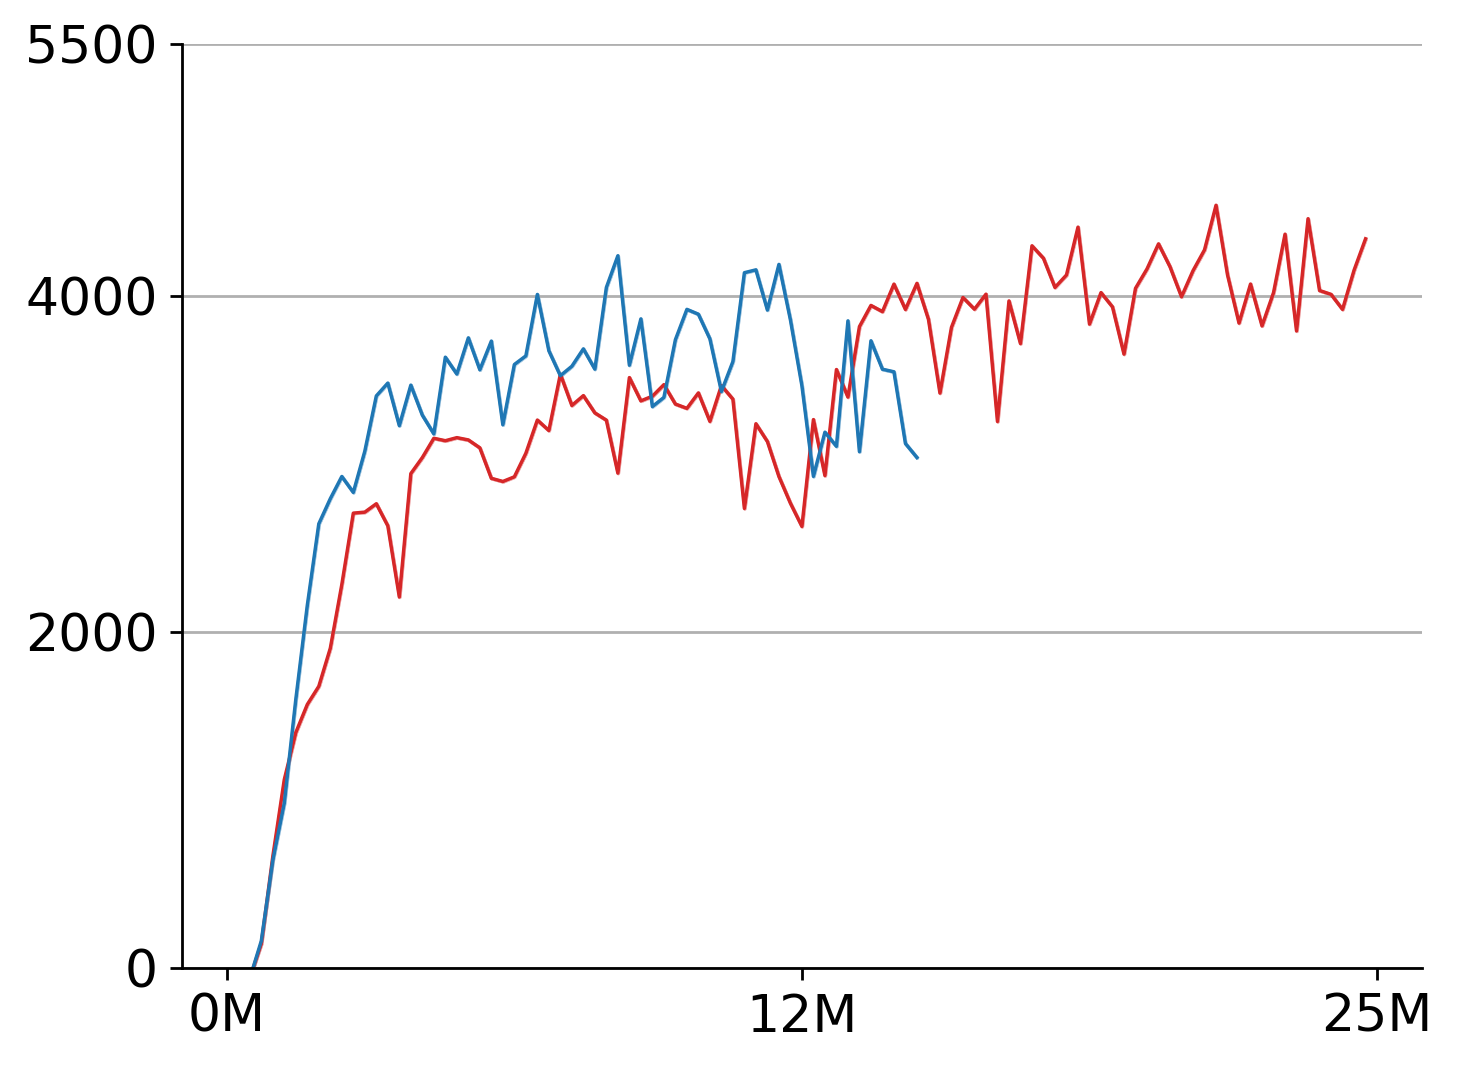
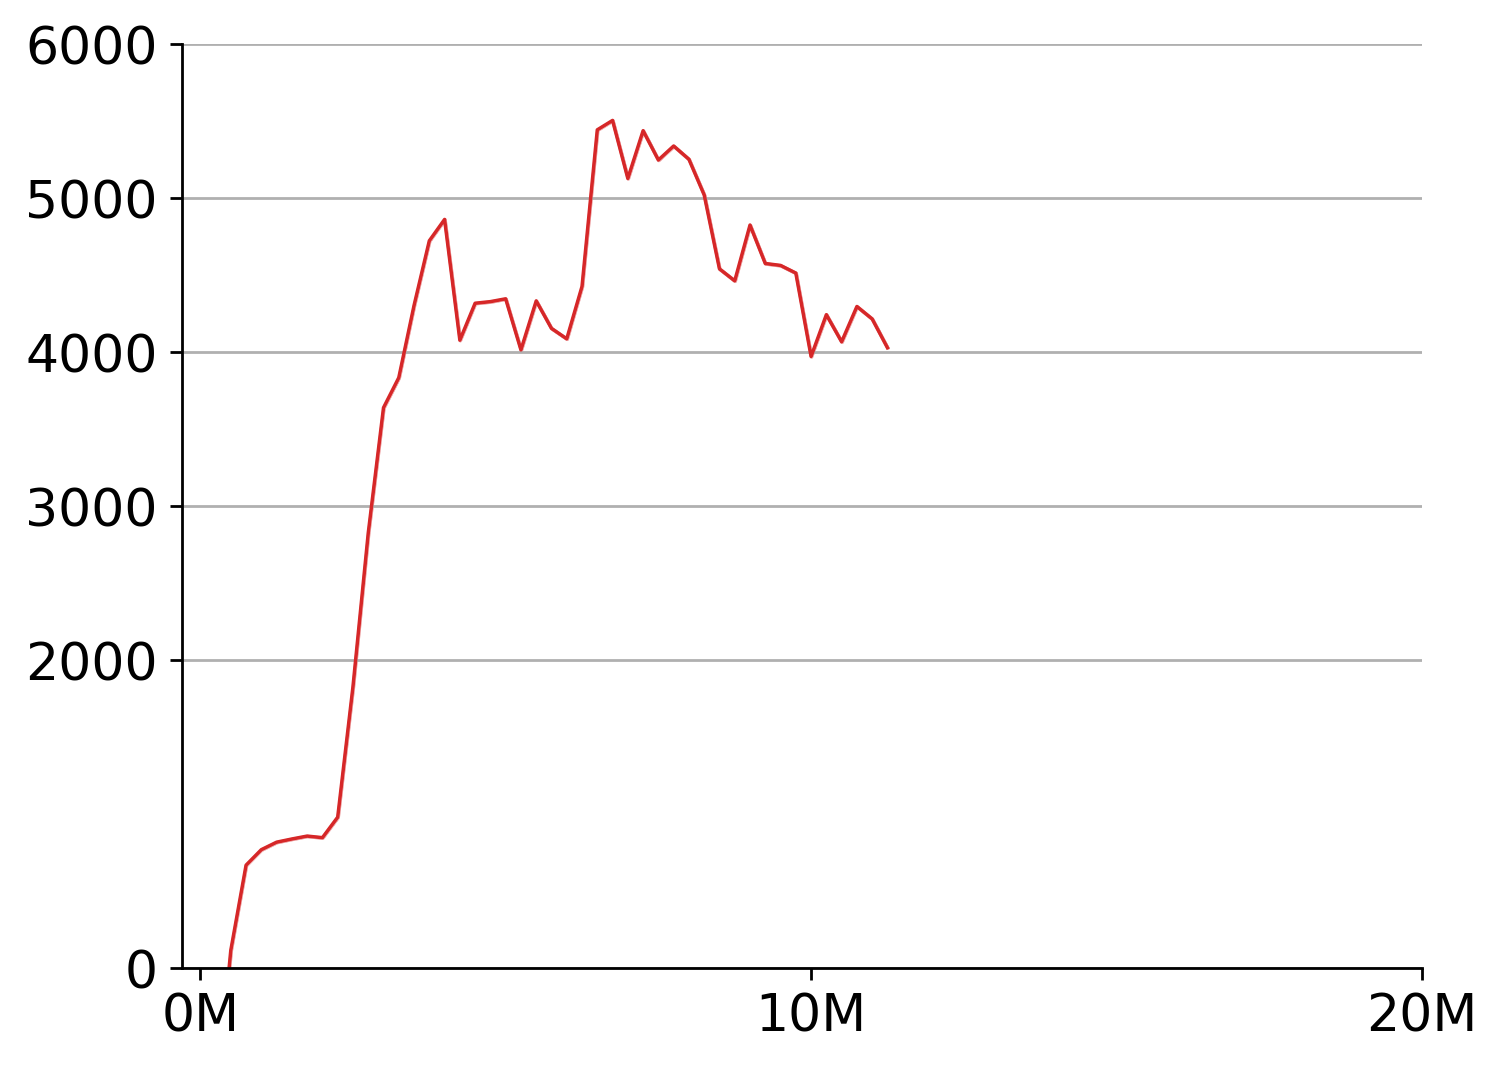
lop

diff --git a/lop/algos/rl/ppo.py b/lop/algos/rl/ppo.py
@@ -143,20 +143,19 @@ class PPO(Learner):
             loss_erank = - torch.stack(erank_losses).mean()
             loss_erank.backward()
 
-            if is_policy:
-                # Calculate gradient norm
-                grad_norm = 0.0
-                for param in self.pol.parameters():
-                    if param.grad is not None:
-                        grad_norm += param.grad.data.norm(2).item() ** 2
-                grad_norm = grad_norm ** 0.5
-            else:
-                # Calculate gradient norm
-                grad_norm = 0.0
-                for param in self.vf.parameters():
-                    if param.grad is not None:
-                        grad_norm += param.grad.data.norm(2).item() ** 2
-                grad_norm = grad_norm ** 0.5
+            grad_norm = 0.0
+            # if is_policy:
+            #     # Calculate gradient norm
+            #     for param in self.pol.parameters():
+            #         if param.grad is not None:
+            #             grad_norm += param.grad.data.norm(2).item() ** 2
+            #     grad_norm = grad_norm ** 0.5
+            # else:
+            #     # Calculate gradient norm
+            #     for param in self.vf.parameters():
+            #         if param.grad is not None:
+            #             grad_norm += param.grad.data.norm(2).item() ** 2
+            #     grad_norm = grad_norm ** 0.5
 
             opt.step()
 
@@ -202,20 +201,20 @@ class PPO(Learner):
                 self.opt.zero_grad()
                 p_loss.backward()
 
-                # Calculate policy network gradient norm
-                pol_grad_norm = 0.0
-                for param in self.pol.parameters():
-                    if param.grad is not None:
-                        pol_grad_norm += param.grad.data.norm(2).item() ** 2
-                pol_grad_norm = pol_grad_norm ** 0.5
+                # # Calculate policy network gradient norm
+                # pol_grad_norm = 0.0
+                # for param in self.pol.parameters():
+                #     if param.grad is not None:
+                #         pol_grad_norm += param.grad.data.norm(2).item() ** 2
+                # pol_grad_norm = pol_grad_norm ** 0.5
                 # print(f'Policy network gradient norm: {pol_grad_norm:.4f}')
 
-                # Calculate value network gradient norm  
-                val_grad_norm = 0.0
-                for param in self.vf.parameters():
-                    if param.grad is not None:
-                        val_grad_norm += param.grad.data.norm(2).item() ** 2
-                val_grad_norm = val_grad_norm ** 0.5
+                # # Calculate value network gradient norm  
+                # val_grad_norm = 0.0
+                # for param in self.vf.parameters():
+                #     if param.grad is not None:
+                #         val_grad_norm += param.grad.data.norm(2).item() ** 2
+                # val_grad_norm = val_grad_norm ** 0.5
                 # print(f'Value network gradient norm: {val_grad_norm:.4f}')
 
                 if self.max_grad_norm > 0:

diff --git a/lop/rl/plots/fig4a.py b/lop/rl/plots/fig4a.py
@@ -76,14 +76,15 @@ def plot_for_one_cfg(cfg, runs, m, ts, color='C0', min_max=False):
 
 def main():
     parser = argparse.ArgumentParser()
-    parser.add_argument('--env', required=False, type=str, default='ant')
+    parser.add_argument('--env', required=False, type=str, default='sant')
     parser.add_argument('--all', required=False, type=bool, default=False)
 
     args = parser.parse_args()
     env = args.env
     plot_all = args.all
 
-    cfg_file = f'../cfg/{env}/l2.yml'
+    # cfg_file = f'../cfg/{env}/l2.yml'
+    cfg_file = ''
     cfg_file1 = f'../cfg/{env}/er.yml'
     cfg_file2, cfg_file3 = '', ''
     if plot_all:
@@ -101,7 +102,7 @@ def main():
 
     # num_runs = 30
     num_runs = 1
-    runs = [i + 0 for i in range(0, num_runs)]
+    runs = [i + 2 for i in range(0, num_runs)]
     m = 250 * 1000
     ts = 100 * 1000 * 1000  # This will be overridden by n_steps from config
     
@@ -120,6 +121,9 @@ def main():
         ts = min(ts, 50 * 1000 * 1000)
     if env == 'ant':
         yticks = [0, 2000, 4000, 5500]
+        ts = min(ts, 50 * 1000 * 1000)
+    if env == 'sant':
+        yticks = [0, 2000, 3000, 4000, 5000, 6000]
         ts = min(ts, 50 * 1000 * 1000)
 
     for idx, cfg in enumerate(cfgs):
